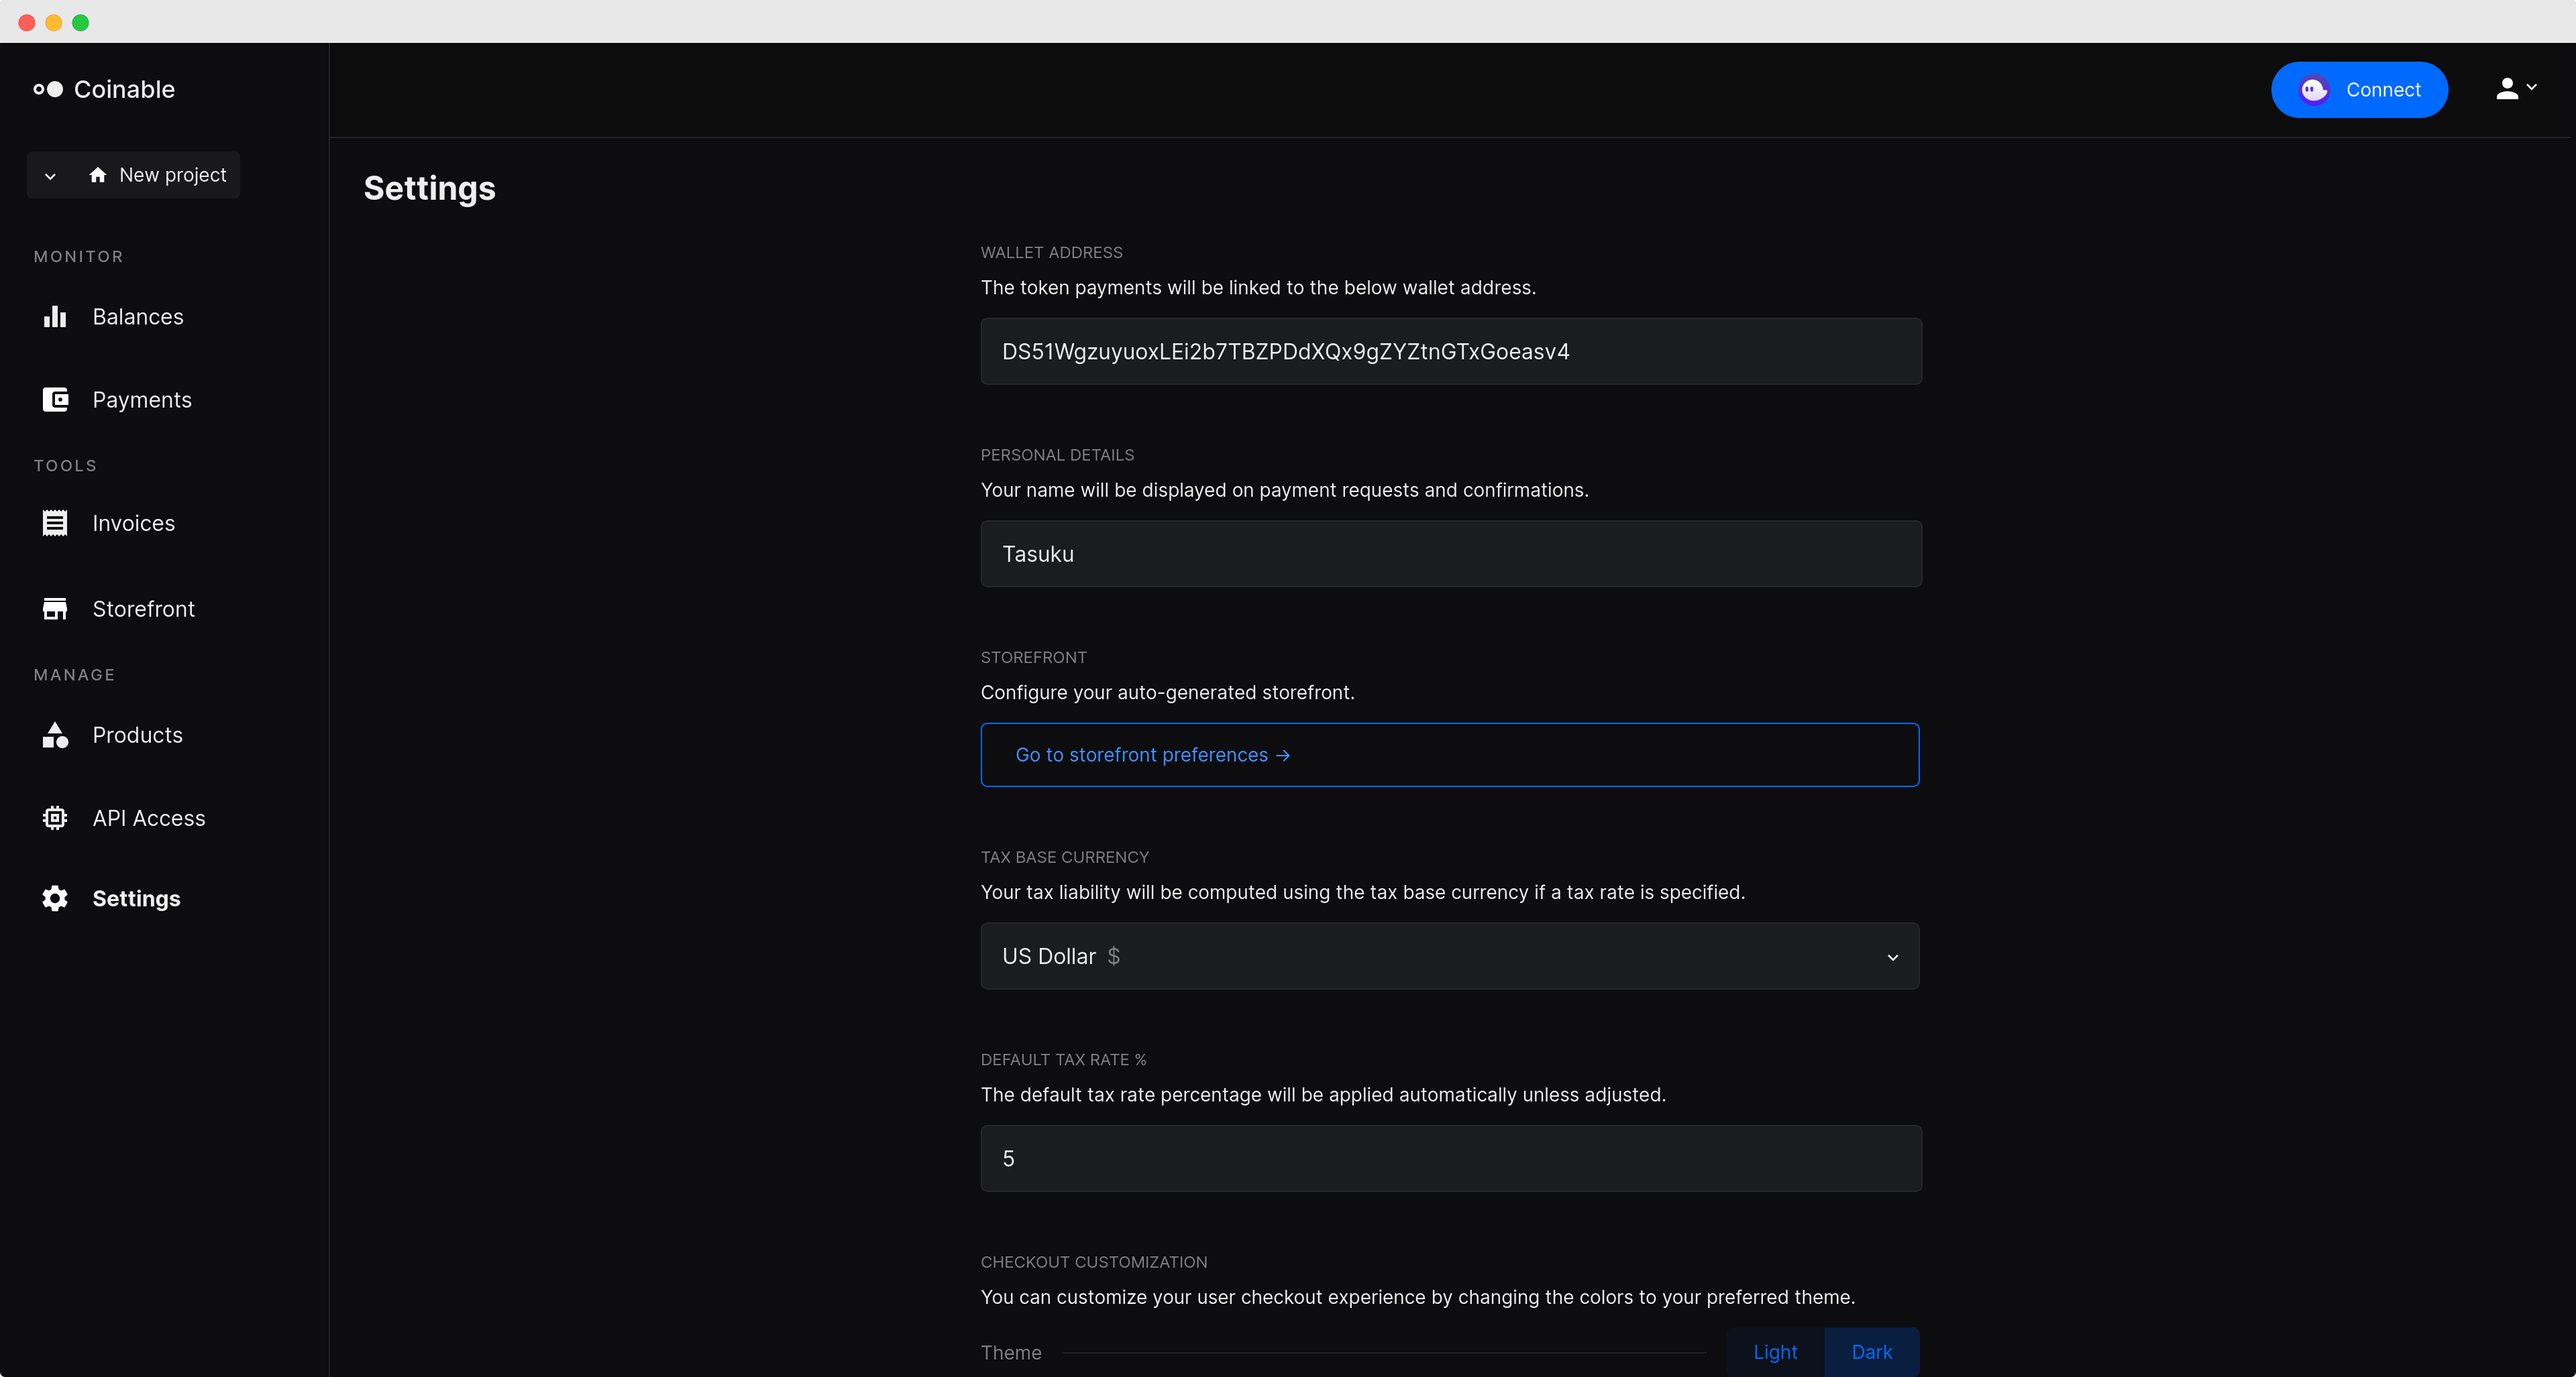
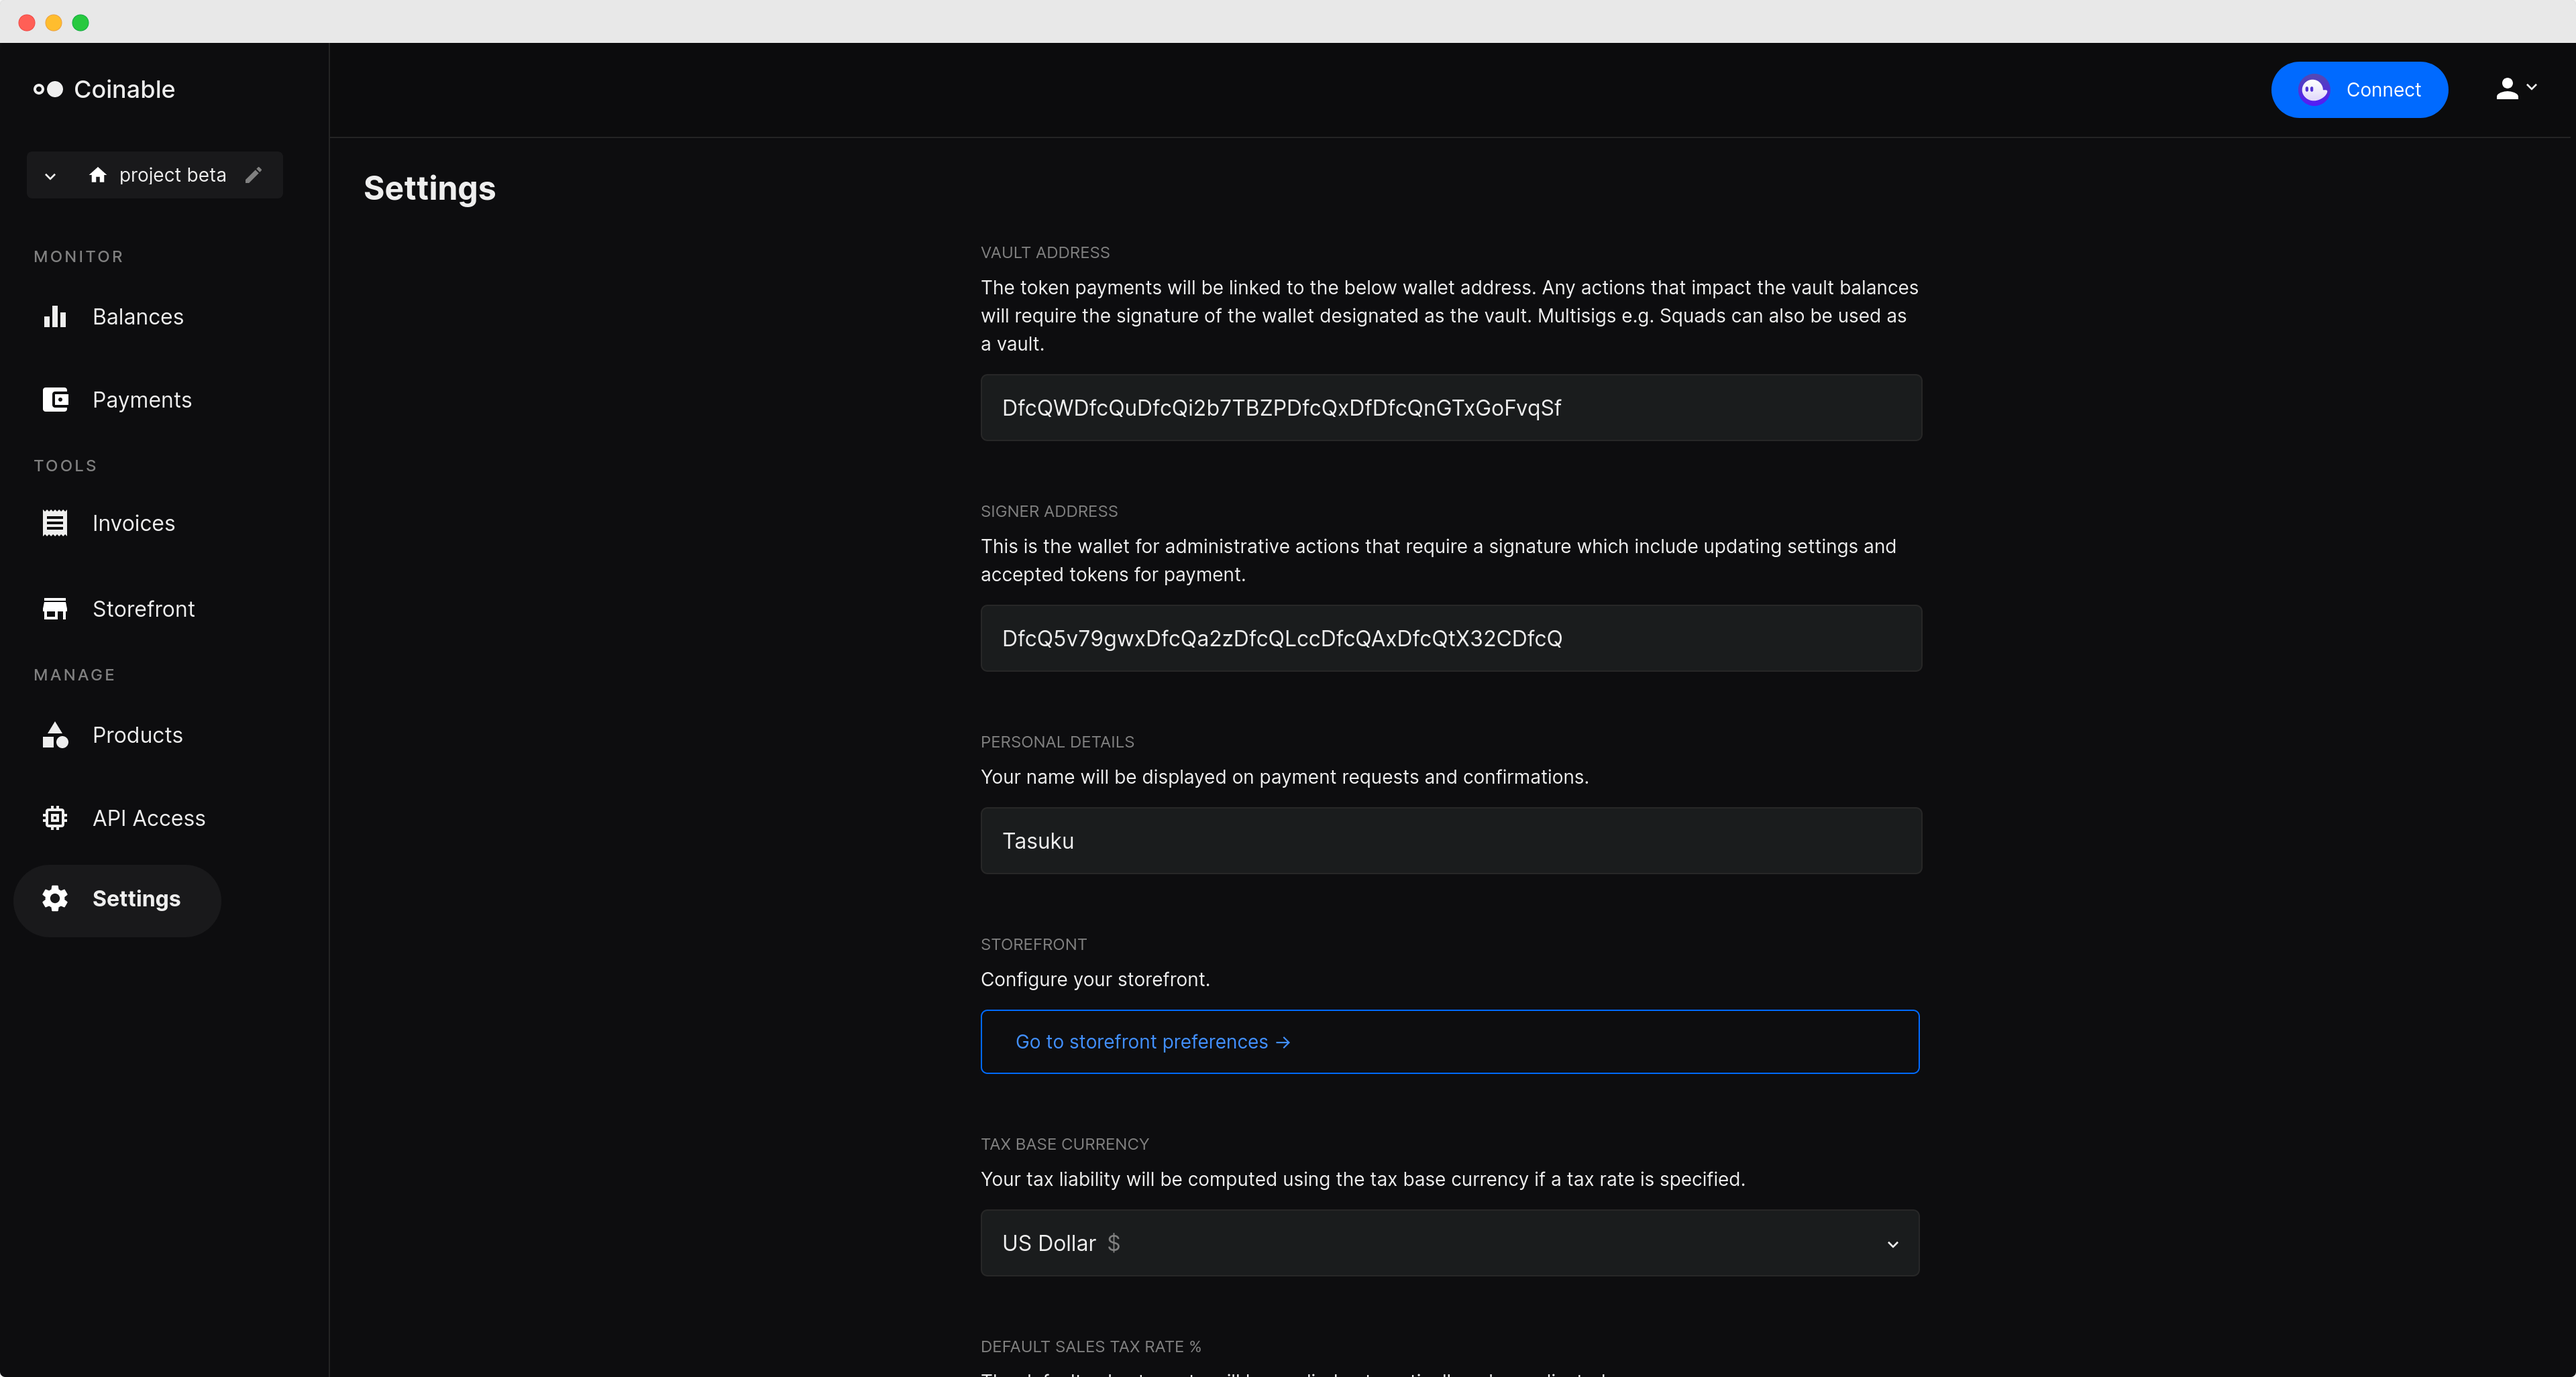
make it more readable

diff --git a/docs/guides/start-here.md b/docs/guides/start-here.md
@@ -4,20 +4,26 @@ sidebar_position: 0
 
 # Start Here
 
-A user will be able to create many **projects**, where a project can represent a restaurant, e-shop, store, or a freelance business.
+A user will be able to create many **Projects**, where a project can represent a restaurant, e-shop, store, or a freelance business.
 
-In order to start accepting crypto payments, each project will need to specify:
+In order to start accepting solana payments, each project will need to:
 
-1. A wallet in which all token accounts will be associated.
-2. Tokens to accept as payment, e.g. SOL, USDC, DUST.
+1. Designate a wallet to use as a **Vault** in which all customer payments will be directed.
+2. Designate a wallet to use as a **Signer** to update settings which require a signature.
+2. Decide which tokens to accept as payment, e.g. SOL, USDC, USDT, DUST, FORGE, etc.
 
 
-## Set wallet address
+## Set wallet addresses
 
-Each project will need to set a wallet address. We recommend creating a new wallet to be specifically used for the project. The wallet address will be used to derive token accounts, where customers will transfer tokens accepted for payment directly to the merchant.
+Each project will need to specify two wallet addresses. One to use as a **Vault** and the other to use as a **Signer**, to update settings requiring a signature. We recommend creating a new wallet for the Signer, to be specifically used for the project. Customer payments will be directed to the wallet address designated as the vault.
 
-One can set the **wallet address** by going to the **Settings** tab and inputting the address into the wallet address field.
+This can be completed by going to the **Settings** tab and inputting the address into the wallet address field.
 
+:::note
+
+Any actions that impact the balances of the **Vault** will require the wallet specified as the vault to be connected and sign. For example, the unwrap SOL action found in the **Balances** page will require the signature of the vault.
+
+:::
 
 
 <div style={{textAlign: 'center', padding: '20px'}}>
@@ -28,24 +34,34 @@ One can set the **wallet address** by going to the **Settings** tab and inputtin
 
 ## Whitelist tokens
 
-You will need to set the tokens that you will accept as payment for each project. This can be accomplished by whitelisting tokens, and will restrict the type of token that potential customers can send to you allowing for increased control.
+You will need to decide which tokens that you want accept as payment. This can be accomplished by whitelisting tokens, and will restrict the type of token that customers can send to you allowing for increased control.
+
+
 
 If a token account for the whitelisted token does not exist, Coinable will create an instruction to open a token account on your behalf when you whitelist the token. This token account will need to remain open in order for you to receive the whitelisted token as payment. A token account is comparable to having a checking account for different currencies accepted in your non-crypto business, e.g. USD, EUR, JPY.
 
 :::tip
 
-The Balances page will indicate the state of your token accounts. If a token account that has been whitelisted is inadvertenly closed, you will be prompted to re-open the token account in order to continue accepting payments.
+The **Balances** page will indicate the state of your token accounts. Green indicates your token accounts are open. If a token account that has been whitelisted is inadvertenly closed, you will be prompted to re-open the token account in order to continue accepting payments and avoid distruptions to your business.
 
 :::
 
-Once the tokens to accept have been set, customers will be able to pay in any tokens that have been whitelisted for a given project. For example, if only USDC is whitelisted, customers will only be able to pay in USDC.
+<div style={{textAlign: 'center', padding: '20px'}}>
+
+![Settings Wallet Address](/img/guides/settings-balances.png)
+
+</div>
+
+Customers will be able to pay in any token that have been whitelisted by you. For example, if only USDC is whitelisted, customers will only be able to pay in USDC.
 
 
-To whitelist tokens for a given project, go to **Settings** and connect your wallet. Make sure to connect the same wallet that you specified in the previous step. Click on the tokens that you would like to accept as payment and click the **Update whitelist** button, and hit approve to reflect the changes on the blockchain.
+To whitelist tokens for a given project, go to **Settings** and connect your **Signer** wallet. Make sure to connect the **Signer** wallet that you specified in the previous step. Click on the tokens that you would like to accept as payment and click the `Update whitelist` button, and hit approve to reflect the changes on the blockchain.
 
 
 <div style={{textAlign: 'center', padding: '20px'}}>
 
-![Whitelist Tokens](/img/guides/whitelist-tokens.png)
+![Whitelist Tokens](/img/guides/settings-whitelist-tokens.png)
 
 </div>
+
+You are now ready to start accepting Solana payments through [Invoices](/guides/invoices), your [Online Web3 Store](/guides/storefronts), and [Checkouts](../../category/checkouts) integrated into an existing website.

diff --git a/docs/intro.md b/docs/intro.md
@@ -5,21 +5,23 @@ slug: /
 
 # Introduction
 
-**Coinable** is a non-custodial Web3 eCommerce and payments platform powered by the [Solana blockchain](https://solana.com/). We are focused on the merchant experience and increasing accessibility and borderless P2P eCommerce opportunities for everyone. All a person needs is a web connection, wallet, and Coinable's suite of Web3 tools to deliver next-generation digital eCommerce experiences from the palm of their hands.
+**Coinable** is a non-custodial Web3 eCommerce and payments platform powered by the Solana blockchain. We are focused on delivering the powers of Web3 eCommerce to everyone. All a person needs is a web connection, wallet, and Coinable's suite of Web3 tools to deliver next-generation digital eCommerce experiences from the palm of their hands.
 
-Coinable offers the ability to integrate a customizable pre-built Checkout into an existing website, or launch a no-code online Store to accept solana payments for goods and services with a few clicks.
+Coinable offers the ability to integrate a customizable pre-built Checkout into an existing website, or launch a no-code online Web3 Store to accept solana payments for goods and services with a few clicks.
 
 Coinable provides an Application Programming Interface (API) that can be used to build decentralized Web3 payment experiences, which is easy to follow and integrate.
 
-Merchants can now **transform businesses to be Web3 compatible and competitive** in the coming digital commerce revolution.
+Merchants, creators, artists, and innovators can now **transform businesses to be Web3 compatible and competitive** in the coming digital commerce revolution.
 
-This documentation is for anyone interested in accepting native SOL or tokens such as USDC, USDT, DUST, and any other tokens in the [Solana ecosystem](https://coinmarketcap.com/view/solana-ecosystem/).
+This documentation is for anyone interested in accepting native SOL or tokens such as USDC, USDT, DUST, and any other tokens in the Solana ecosystem.
+
+**Ready to get started?** [Start here](/guides/start-here)!
 
 Help us improve our documentation by contributing to our [documentation](https://github.com/coinable/coinable-docs).
 
 > **NOTE**
 >
-> We are iterating fast and the platform and respective services are heavily under construction as we move towards a beta release.
+> We are iterating fast and the platform and respective services are heavily under construction as we continue to work on our beta version.
 > Feedback in relation to feature requests and bug reports are greatly appreciated.
 >
-> **Want to learn more?** Join our [Discord community](https://discord.gg/RgU669RNRk), and feel free to ask questions and share your thoughts. We also have a bug bounty system that grants a discount for the upcoming Coinable Founders NFT collection mint.
+> **Want to learn more?** Join our [Discord community](https://discord.gg/RgU669RNRk), and feel free to ask questions and share your thoughts.
